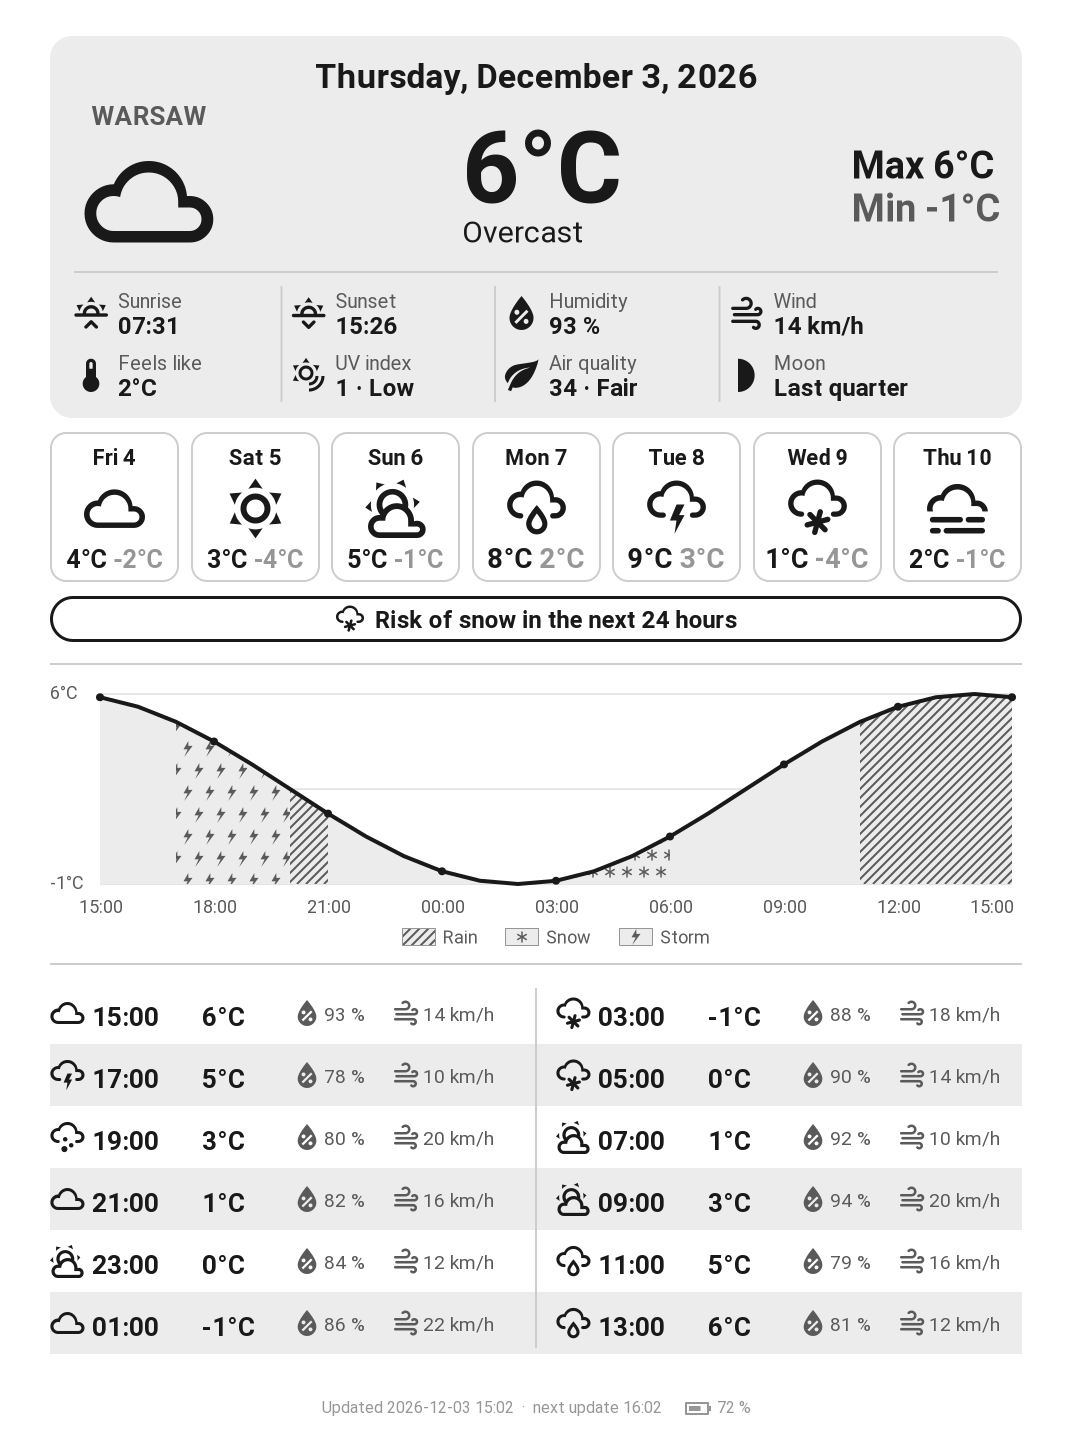
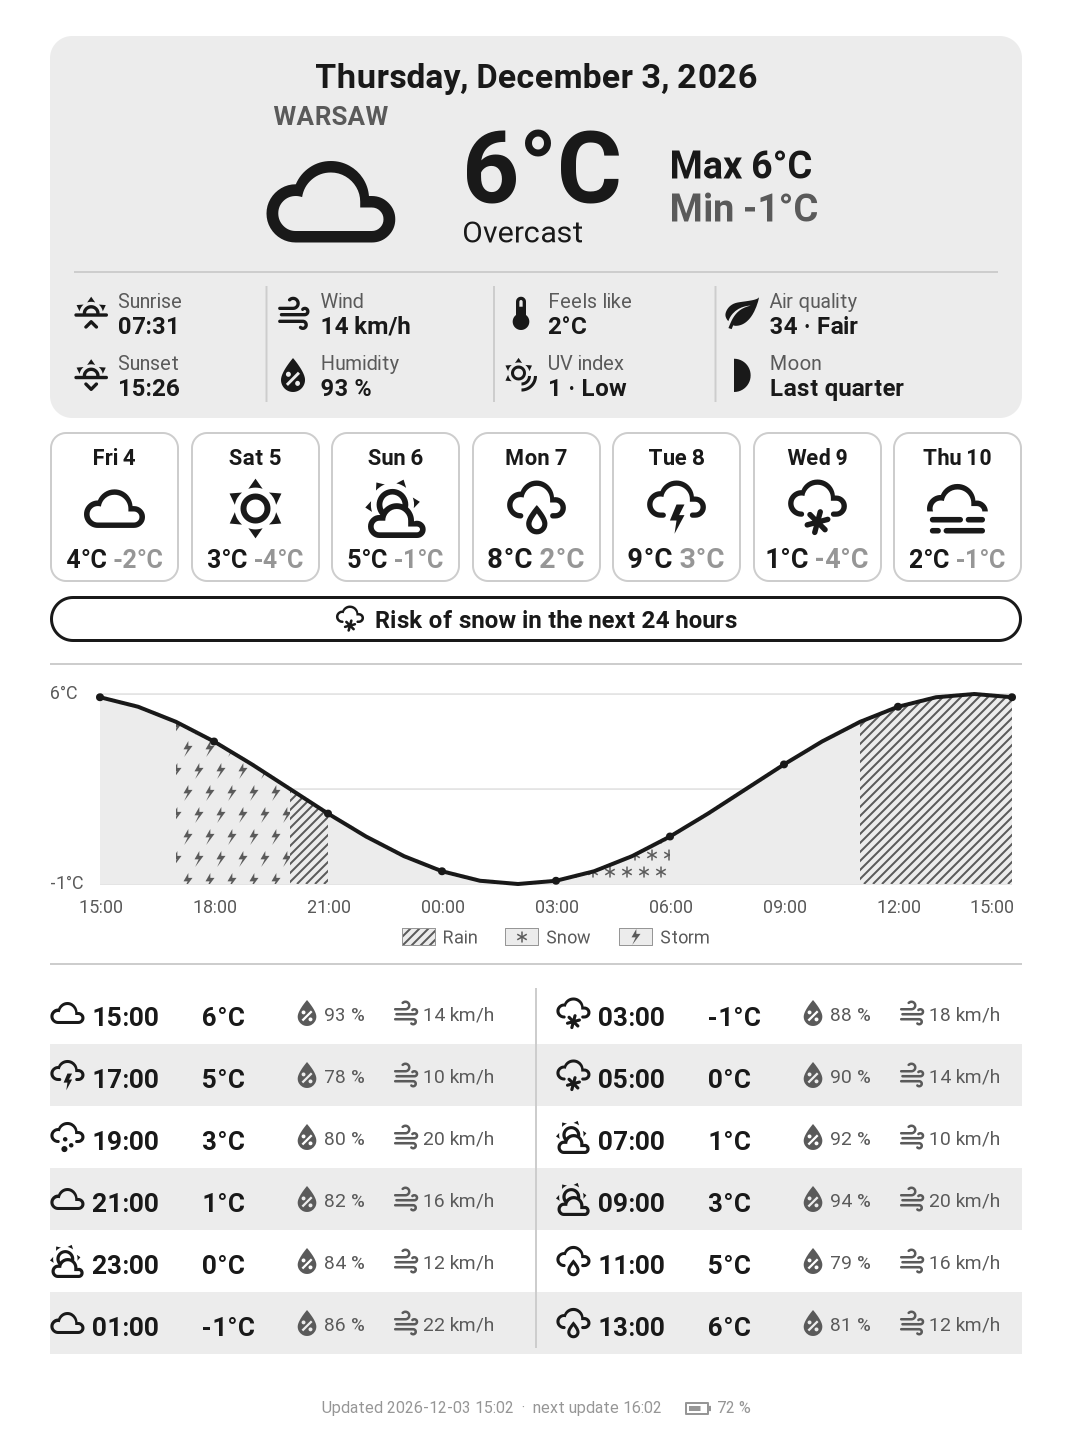
Group the details by column, and center the current weather
- Columns: sunrise and sunset, wind and humidity, feels-like and UV index,
  air quality and moon phase.
- The weather icon, the temperature and the day's max and min form one
  group, centered in the card, rather than spread to its edges.

Claude-Session: https://claude.ai/code/session_01ArRJHWoxrTZihEERid19vz

diff --git a/kindleweather/lib/kindle_weather/render.py b/kindleweather/lib/kindle_weather/render.py
@@ -308,13 +308,32 @@ class _Dashboard:
         left, right = MARGIN + 24, self.width - MARGIN - 24
         center_y = (main_top + main_bottom) / 2
 
-        # The city over the weather icon, on the left.
+        # The weather icon under the city, the temperature and description,
+        # then the day's max and min: one group, centered in the card.
         place = forecast.place_name.upper()
         place_box = draw.textbbox((0, 0), place, font=fonts["location"])
-        place_column = max(150, place_box[2] - place_box[0])
+        icon_column = max(150, place_box[2] - place_box[0])
+        max_text = f"Max {self._temperature(forecast.today.temperature_max)}"
+        min_text = f"Min {self._temperature(forecast.today.temperature_min)}"
+        min_max_width = max(text_width(draw, t, fonts["min_max"]) for t in (max_text, min_text))
+        gap = 56
+        # The temperature and description shrink if needed, such as for
+        # "-12°C" or a long description.
+        temperature = self._temperature(forecast.current.temperature)
+        description = self.locale.describe(forecast.current.weather_code)
+        space = right - left - icon_column - min_max_width - 2 * gap
+        temperature_font = _shrink_to_fit(draw, temperature, fonts["temperature"], space)
+        description_font = _shrink_to_fit(draw, description, fonts["description"], space)
+        block_width = max(
+            text_width(draw, temperature, temperature_font),
+            text_width(draw, description, description_font),
+        )
+        group_width = icon_column + gap + block_width + gap + min_max_width
+        icon_left = max(left, (left + right - group_width) / 2)
+
         draw_centered_text(
             draw,
-            left + place_column / 2,
+            icon_left + icon_column / 2,
             main_top - place_box[1],
             place,
             fonts["location"],
@@ -322,32 +341,15 @@ class _Dashboard:
         )
         icon_top = main_top + place_box[3] - place_box[1] + 12
         self.icons.draw(
-            draw, forecast.current.weather_code, (left, icon_top, left + place_column, main_bottom)
+            draw,
+            forecast.current.weather_code,
+            (icon_left, icon_top, icon_left + icon_column, main_bottom),
         )
-
-        # The day's max and min, on the right.
-        max_text = f"Max {self._temperature(forecast.today.temperature_max)}"
-        min_text = f"Min {self._temperature(forecast.today.temperature_min)}"
-        min_max_width = max(text_width(draw, t, fonts["min_max"]) for t in (max_text, min_text))
-        min_max_x = right - min_max_width
-        min_max = [(max_text, fonts["min_max"], INK), (min_text, fonts["min_max"], GRAY_DARK)]
-        self._text_stack(min_max_x, center_y, min_max, 14)
-
-        # The temperature and description, centered between them; both shrink
-        # if needed, such as for "-12°C" or a long description.
-        temperature = self._temperature(forecast.current.temperature)
-        description = self.locale.describe(forecast.current.weather_code)
-        space_left, space_right = left + place_column + 30, min_max_x - 30
-        space = space_right - space_left
-        temperature_font = _shrink_to_fit(draw, temperature, fonts["temperature"], space)
-        description_font = _shrink_to_fit(draw, description, fonts["description"], space)
-        block_width = max(
-            text_width(draw, temperature, temperature_font),
-            text_width(draw, description, description_font),
-        )
-        block_x = (space_left + space_right - block_width) / 2
+        block_x = icon_left + icon_column + gap
         main = [(temperature, temperature_font, INK), (description, description_font, INK)]
         self._text_stack(block_x, center_y, main, 18)
+        min_max = [(max_text, fonts["min_max"], INK), (min_text, fonts["min_max"], GRAY_DARK)]
+        self._text_stack(block_x + block_width + gap, center_y, min_max, 14)
 
         draw.line([(left, main_bottom + 6), (right, main_bottom + 6)], fill=GRAY_LIGHT, width=2)
         self._details_grid(left, right, grid_top)
@@ -372,27 +374,20 @@ class _Dashboard:
         # inverts the picture. Half a cycle later, the shadow has the lit
         # part's shape.
         moon_icon = (phase + 4) % 8 if self.dark != self.icons.moon_draws_lit else phase
+        sunrise = ("sunrise", labels["sunrise"], self._clock_time(forecast.sunrise))
+        sunset = ("sunset", labels["sunset"], self._clock_time(forecast.sunset))
+        wind = ("wind", labels["wind"], f"{round(current.wind_speed)} {forecast.wind_unit}")
+        humidity = ("humidity", labels["humidity"], f"{round(current.humidity)} %")
+        feels_like = ("feels_like", labels["feels_like"], self._temperature(current.feels_like))
+        uv_level = "—" if uv is None else f"{round(uv)} · {locale.uv_levels[_level(uv, UV_LEVELS)]}"
+        air_level = "—" if air is None else f"{air} · {locale.air_levels[_level(air, AIR_LEVELS)]}"
+        # Read by column: the sun, wind and humidity, temperature and UV, air and moon.
         rows = (
+            (sunrise, wind, feels_like, ("air", labels["air"], air_level)),
             (
-                ("sunrise", labels["sunrise"], self._clock_time(forecast.sunrise)),
-                ("sunset", labels["sunset"], self._clock_time(forecast.sunset)),
-                ("humidity", labels["humidity"], f"{round(current.humidity)} %"),
-                ("wind", labels["wind"], f"{round(current.wind_speed)} {forecast.wind_unit}"),
-            ),
-            (
-                ("feels_like", labels["feels_like"], self._temperature(current.feels_like)),
-                (
-                    "uv",
-                    labels["uv"],
-                    "—"
-                    if uv is None
-                    else f"{round(uv)} · {locale.uv_levels[_level(uv, UV_LEVELS)]}",
-                ),
-                (
-                    "air",
-                    labels["air"],
-                    "—" if air is None else f"{air} · {locale.air_levels[_level(air, AIR_LEVELS)]}",
-                ),
+                sunset,
+                humidity,
+                ("uv", labels["uv"], uv_level),
                 (f"moon{moon_icon}", labels["moon"], locale.moon_phases[phase]),
             ),
         )
